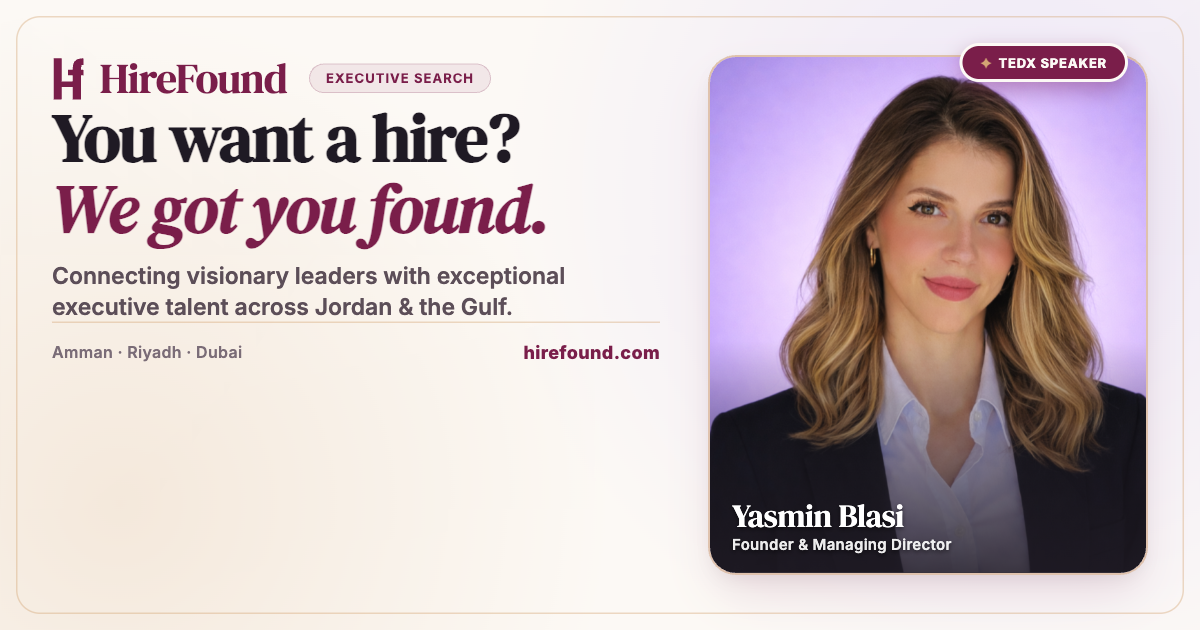
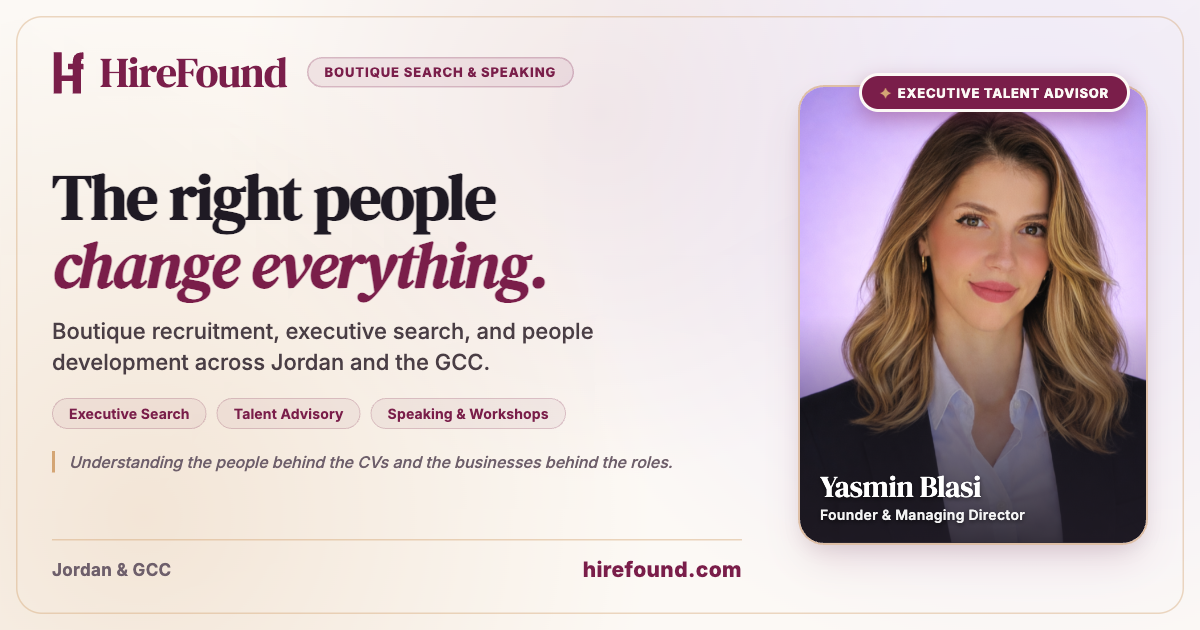
feat(seo): refine social preview cards with executive talent advisor branding and balanced layout

diff --git a/src/lib/seo/metadata.test.ts b/src/lib/seo/metadata.test.ts
@@ -1,0 +1,92 @@
+import { describe, it, expect, vi } from "vitest";
+import fs from "node:fs";
+import path from "node:path";
+
+vi.mock("next/font/google", () => ({
+  Inter: () => ({ variable: "--font-inter" }),
+  DM_Serif_Display: () => ({ variable: "--font-dm-serif" }),
+  Noto_Sans_Arabic: () => ({ variable: "--font-noto-arabic" }),
+}));
+
+import { metadata as layoutMetadata } from "@/app/layout";
+import { metadata as jobsMetadata } from "@/app/jobs/page";
+
+const ROOT = path.resolve(__dirname, "../../..");
+
+describe("SEO and Social Preview Cards", () => {
+  it("has valid non-empty og-image.png for homepage", () => {
+    const ogImagePath = path.join(ROOT, "public/assets/og-image.png");
+    expect(fs.existsSync(ogImagePath)).toBe(true);
+    const stats = fs.statSync(ogImagePath);
+    expect(stats.size).toBeGreaterThan(100 * 1024); // Greater than 100KB
+  });
+
+  it("has valid non-empty og-jobs.png for jobs board", () => {
+    const ogJobsPath = path.join(ROOT, "public/assets/og-jobs.png");
+    expect(fs.existsSync(ogJobsPath)).toBe(true);
+    const stats = fs.statSync(ogJobsPath);
+    expect(stats.size).toBeGreaterThan(100 * 1024); // Greater than 100KB
+  });
+
+  it("layout metadata contains valid OpenGraph and Twitter configurations without em dashes", () => {
+    expect(layoutMetadata.title).toBeDefined();
+    expect(layoutMetadata.description).toBeDefined();
+
+    const titleStr = String(layoutMetadata.title);
+    const descStr = String(layoutMetadata.description);
+
+    expect(titleStr).not.toContain("—");
+    expect(descStr).not.toContain("—");
+
+    const og = layoutMetadata.openGraph;
+    expect(og).toBeDefined();
+    expect(String(og?.title)).not.toContain("—");
+    expect(String(og?.description)).not.toContain("—");
+    expect(og?.url).toBe("https://hirefound.com/");
+
+    const ogImages = og?.images;
+    expect(Array.isArray(ogImages)).toBe(true);
+    const firstImg = (ogImages as Array<{ url: string; width: number; height: number; alt?: string }>)[0];
+    expect(firstImg.url).toContain("og-image.png");
+    expect(firstImg.width).toBe(1200);
+    expect(firstImg.height).toBe(630);
+    expect(firstImg.alt).not.toContain("—");
+
+    const tw = layoutMetadata.twitter as Record<string, unknown> | undefined;
+    expect(tw).toBeDefined();
+    expect(tw?.card).toBe("summary_large_image");
+    expect(String(tw?.title)).not.toContain("—");
+    expect(String(tw?.description)).not.toContain("—");
+  });
+
+  it("jobs page metadata contains valid OpenGraph and Twitter configurations without em dashes", () => {
+    expect(jobsMetadata.title).toBeDefined();
+    expect(jobsMetadata.description).toBeDefined();
+
+    const titleStr = String(jobsMetadata.title);
+    const descStr = String(jobsMetadata.description);
+
+    expect(titleStr).not.toContain("—");
+    expect(descStr).not.toContain("—");
+
+    const og = jobsMetadata.openGraph;
+    expect(og).toBeDefined();
+    expect(String(og?.title)).not.toContain("—");
+    expect(String(og?.description)).not.toContain("—");
+    expect(og?.url).toBe("https://hirefound.com/jobs/");
+
+    const ogImages = og?.images;
+    expect(Array.isArray(ogImages)).toBe(true);
+    const firstImg = (ogImages as Array<{ url: string; width: number; height: number; alt?: string }>)[0];
+    expect(firstImg.url).toContain("og-jobs.png");
+    expect(firstImg.width).toBe(1200);
+    expect(firstImg.height).toBe(630);
+    expect(firstImg.alt).not.toContain("—");
+
+    const tw = jobsMetadata.twitter as Record<string, unknown> | undefined;
+    expect(tw).toBeDefined();
+    expect(tw?.card).toBe("summary_large_image");
+    expect(String(tw?.title)).not.toContain("—");
+    expect(String(tw?.description)).not.toContain("—");
+  });
+});

diff --git a/src/app/layout.tsx b/src/app/layout.tsx
@@ -35,15 +35,16 @@ const notoSansArabic = Noto_Sans_Arabic({
 });
 
 export const metadata: Metadata = {
-  title: "HireFound - You want a hire? We got you found.",
+  title: "HireFound | Founded by Yasmin Blasi - The Right People Change Everything",
   description:
-    "HireFound by Yasmin Blasi - Connecting the right people with where they belong. Executive search, recruitment, and career matchmaking across MENA.",
+    "HireFound by Yasmin Blasi. Boutique recruitment, executive search, and people development across Jordan and the GCC. The right people change everything.",
   icons: {
     icon: withBasePath("/assets/hirefound-signature.svg"),
   },
   openGraph: {
-    title: "HireFound - You want a hire? We got you found.",
-    description: "Connecting the right people with where they belong.",
+    title: "HireFound | Founded by Yasmin Blasi - The Right People Change Everything",
+    description:
+      "Boutique recruitment, executive search, and people development across Jordan and the GCC.",
     url: "https://hirefound.com/",
     siteName: "HireFound",
     images: [
@@ -51,15 +52,16 @@ export const metadata: Metadata = {
         url: "https://hirefound.com/assets/og-image.png",
         width: 1200,
         height: 630,
-        alt: "HireFound by Yasmin Blasi - Executive Search & Recruitment",
+        alt: "HireFound by Yasmin Blasi - Boutique Search & Speaking",
       },
     ],
     type: "website",
   },
   twitter: {
     card: "summary_large_image",
-    title: "HireFound - You want a hire? We got you found.",
-    description: "Connecting the right people with where they belong.",
+    title: "HireFound | Founded by Yasmin Blasi - The Right People Change Everything",
+    description:
+      "Boutique recruitment, executive search, and people development across Jordan and the GCC.",
     images: ["https://hirefound.com/assets/og-image.png"],
   },
 };

diff --git a/src/app/jobs/page.tsx b/src/app/jobs/page.tsx
@@ -9,11 +9,11 @@ import { JobsSkeletons } from "@/components/jobs/jobs-states";
 export const metadata: Metadata = {
   title: "Find Your Match - Open Roles | HireFound",
   description:
-    "Browse open roles at HireFound. We match talented professionals with meaningful careers across hospitality, tech, F&B, aviation, and more.",
+    "Curated leadership, tech, and hospitality career opportunities across Jordan and the GCC with HireFound.",
   openGraph: {
     title: "Find Your Match - Open Roles | HireFound",
     description:
-      "Browse open roles and find your next career match with HireFound.",
+      "Curated leadership, tech, and hospitality career opportunities across Jordan and the GCC.",
     url: "https://hirefound.com/jobs/",
     siteName: "HireFound",
     images: [
@@ -21,7 +21,7 @@ export const metadata: Metadata = {
         url: "https://hirefound.com/assets/og-jobs.png",
         width: 1200,
         height: 630,
-        alt: "HireFound - Open Roles & Career Matching",
+        alt: "HireFound - Curated Open Roles & Career Matching",
       },
     ],
     type: "website",
@@ -30,7 +30,7 @@ export const metadata: Metadata = {
     card: "summary_large_image",
     title: "Find Your Match - Open Roles | HireFound",
     description:
-      "Browse open roles and find your next career match with HireFound.",
+      "Curated leadership, tech, and hospitality career opportunities across Jordan and the GCC.",
     images: ["https://hirefound.com/assets/og-jobs.png"],
   },
 };

diff --git a/AGENTS.md b/AGENTS.md
@@ -14,4 +14,5 @@ This block is written and re-added by `next dev` — verify at `node_modules/nex
 - **NO EM DASHES**: Never use em dashes (`—` or `&mdash;`) in any copy, UI text, documentation, or code comments. Use standard hyphens (`-`), commas, colons, or clean sentence breaks instead.
 
 ## Reminders & Next Priorities
-- **REMIND USER AT START OF NEXT SESSION**: Review and refine the social media live preview cards (Open Graph and Twitter previews for homepage and jobs page).
+- **COMPLETED**: Social media preview cards (Open Graph and Twitter for homepage and jobs page) refined with Option 1 bold typography, Yasmin's portrait, feature pills, and updated metadata.
+- Audit remaining site sections (Services, HowItWorks, Trust) against docs/yasmin.md if further copy synchronization is needed.
